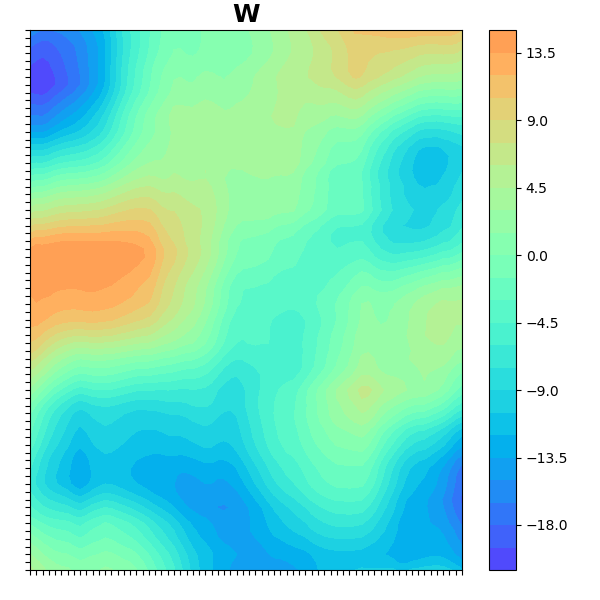
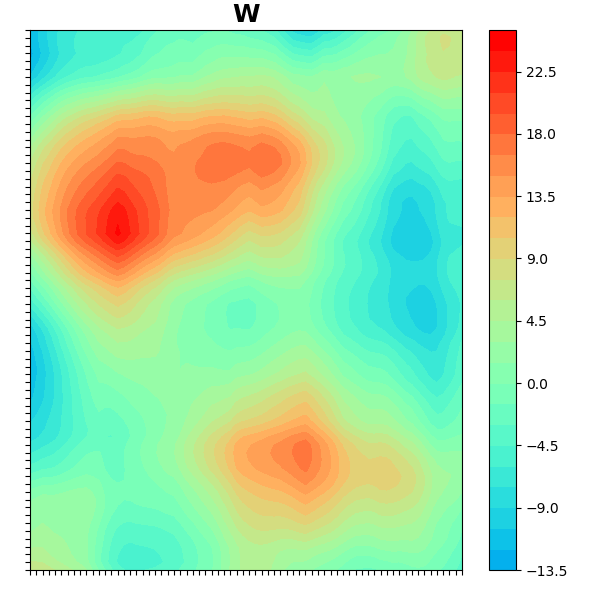
Убрал в спектральном методе матричные операции.

diff --git a/STG_core/lib/Spectral.c b/STG_core/lib/Spectral.c
@@ -6,18 +6,6 @@
 
 void STG_free_Spectral_data(STG_SpectralData * data)
 {
-    free(data->c1);
-    free(data->c2);
-    free(data->c3);
-    free(data->a11);
-    free(data->a12);
-    free(data->a13);
-    free(data->a21);
-    free(data->a22);
-    free(data->a23);
-    free(data->a31);
-    free(data->a32);
-    free(data->a33);
 
     free(data->u_abs);
 
@@ -26,41 +14,6 @@ void STG_free_Spectral_data(STG_SpectralData * data)
     free(data->alpha);
     free(data->theta);
     free(data->omega);
-}
-
-
-
-void STG_compute_Spectral_matrix_data(
-    STG_float re_uu, STG_float re_vv, STG_float re_ww,
-    STG_float re_uv, STG_float re_uw, STG_float re_vw,
-    STG_float * c1, STG_float * c2, STG_float * c3,
-    STG_float * a11, STG_float * a12, STG_float * a13,
-    STG_float * a21, STG_float * a22, STG_float * a23,
-    STG_float * a31, STG_float * a32, STG_float * a33
-)
-{
-    STG_float trace = re_uu + re_vv + re_ww;
-    STG_float eig_vals[3], eig_vec1[3], eig_vec2[3], eig_vec3[3];
-    compute_eig(
-        re_uu, re_vv, re_ww, re_uv, re_uw, re_vw,
-        eig_vals, eig_vec1, eig_vec2, eig_vec3
-    );
-    if ((re_uu == 0) && (re_vv == 0) && (re_ww == 0))
-    {
-        trace = eig_vals[0] + eig_vals[1] + eig_vals[2];
-    }
-    *c1 = sqrt(eig_vals[0] * 3 / trace);
-    *c2 = sqrt(eig_vals[1] * 3 / trace);
-    *c3 = sqrt(eig_vals[2] * 3 / trace);
-    *a11 = eig_vec1[0];
-    *a21 = eig_vec1[1];
-    *a31 = eig_vec1[2];
-    *a12 = eig_vec2[0];
-    *a22 = eig_vec2[1];
-    *a32 = eig_vec2[2];
-    *a13 = eig_vec3[0];
-    *a23 = eig_vec3[1];
-    *a33 = eig_vec3[2];
 }
 
 
@@ -114,19 +67,6 @@ void STG_compute_Spectral_data(
 
     data->u_abs = (STG_float *)malloc(sizeof(STG_float) * num_modes * mesh_size);
 
-    data->a11 = (STG_float *)malloc(sizeof(STG_float) * mesh_size);
-    data->a12 = (STG_float *)malloc(sizeof(STG_float) * mesh_size);
-    data->a13 = (STG_float *)malloc(sizeof(STG_float) * mesh_size);
-    data->a21 = (STG_float *)malloc(sizeof(STG_float) * mesh_size);
-    data->a22 = (STG_float *)malloc(sizeof(STG_float) * mesh_size);
-    data->a23 = (STG_float *)malloc(sizeof(STG_float) * mesh_size);
-    data->a31 = (STG_float *)malloc(sizeof(STG_float) * mesh_size);
-    data->a32 = (STG_float *)malloc(sizeof(STG_float) * mesh_size);
-    data->a33 = (STG_float *)malloc(sizeof(STG_float) * mesh_size);
-    data->c1 = (STG_float *)malloc(sizeof(STG_float) * mesh_size);
-    data->c2 = (STG_float *)malloc(sizeof(STG_float) * mesh_size);
-    data->c3 = (STG_float *)malloc(sizeof(STG_float) * mesh_size);
-
     data->phi = (STG_float *)malloc(sizeof(STG_float) * num_modes);
     data->psi = (STG_float *)malloc(sizeof(STG_float) * num_modes);
     data->alpha = (STG_float *)malloc(sizeof(STG_float) * num_modes);
@@ -149,17 +89,6 @@ void STG_compute_Spectral_data(
         }
     }
 
-    for (STG_int i_node = 0; i_node < mesh_size; i_node++)
-    {
-        STG_compute_Spectral_matrix_data(
-            init_data.re.re_uu[i_node], init_data.re.re_vv[i_node], init_data.re.re_ww[i_node],
-            init_data.re.re_uv[i_node], init_data.re.re_uw[i_node], init_data.re.re_vw[i_node],
-            &(data->c1[i_node]), &(data->c2[i_node]), &(data->c3[i_node]),
-            &(data->a11[i_node]), &(data->a12[i_node]), &(data->a13[i_node]),
-            &(data->a21[i_node]), &(data->a22[i_node]), &(data->a23[i_node]),
-            &(data->a31[i_node]), &(data->a32[i_node]), &(data->a33[i_node])
-        );
-    }
     STG_compute_Spectral_random_angles_and_phase(
         num_modes, data->phi, data->psi, data->alpha, data->theta, data->omega
     );
@@ -171,10 +100,6 @@ void STG_compute_Spectral_pulsations(
     STG_float * k1, STG_float * k2, STG_float * k3,
     STG_float * sigma1, STG_float * sigma2, STG_float * sigma3,
     STG_float * psi, STG_float * omega, STG_float * u_abs,
-    STG_float c1, STG_float c2, STG_float c3,
-    STG_float a11, STG_float a12, STG_float a13,
-    STG_float a21, STG_float a22, STG_float a23,
-    STG_float a31, STG_float a32, STG_float a33,
     STG_float x, STG_float y, STG_float z,
     STG_int num_modes, STG_float time_scale, STG_float time,
     STG_float * u_p, STG_float * v_p, STG_float * w_p
@@ -189,12 +114,9 @@ void STG_compute_Spectral_pulsations(
         v2 += 2 * u_abs[i] * cos(k1[i] * x + k2[i] * y + k3[i] * z + psi[i] + omega[i] * time / time_scale) * sigma2[i];
         v3 += 2 * u_abs[i] * cos(k1[i] * x + k2[i] * y + k3[i] * z + psi[i] + omega[i] * time / time_scale) * sigma3[i];
     }
-    STG_float w1 = c1 * v1;
-    STG_float w2 = c2 * v2;
-    STG_float w3 = c3 * v3;
-    *u_p = a11 * w1 + a12 * w2 + a13 * w3;
-    *v_p = a21 * w1 + a22 * w2 + a23 * w3;
-    *w_p = a31 * w1 + a32 * w2 + a33 * w3;
+	*u_p = v1;
+	*v_p = v2;
+	*w_p = v3;
 }
 
 
@@ -230,10 +152,6 @@ void STG_compute_Spectral_moment_field(
         STG_compute_Spectral_pulsations(
             k1, k2, k3, sigma1, sigma2, sigma3,
             data.psi, data.omega, &(data.u_abs[i_spec]),
-            data.c1[i_node], data.c2[i_node], data.c3[i_node],
-            data.a11[i_node], data.a12[i_node], data.a13[i_node],
-            data.a21[i_node], data.a22[i_node], data.a23[i_node],
-            data.a31[i_node], data.a32[i_node], data.a33[i_node],
             init_data.mesh.x[i_node], init_data.mesh.y[i_node], init_data.mesh.z[i_node],
             data.num_modes, init_data.scales.ts_i[i_node], mom_field->time,
             &(mom_field->u_p[i_node]), &(mom_field->v_p[i_node]), &(mom_field->w_p[i_node])
@@ -287,10 +205,6 @@ void STG_compute_Spectral_node_hist(STG_InitData init_data,
         STG_compute_Spectral_pulsations(
             k1, k2, k3, sigma1, sigma2, sigma3,
             data.psi, data.omega, &(data.u_abs[i_spec]),
-            data.c1[i_node], data.c2[i_node], data.c3[i_node],
-            data.a11[i_node], data.a12[i_node], data.a13[i_node],
-            data.a21[i_node], data.a22[i_node], data.a23[i_node],
-            data.a31[i_node], data.a32[i_node], data.a33[i_node],
             init_data.mesh.x[i_node], init_data.mesh.y[i_node], init_data.mesh.z[i_node],
             data.num_modes, init_data.scales.ts_i[i_node], time,
             &(node_hist->u_p[it]), &(node_hist->v_p[it]), &(node_hist->w_p[it])

diff --git a/STG_core/lib/Spectral.h b/STG_core/lib/Spectral.h
@@ -10,19 +10,6 @@ typedef struct STG_SpectralData_s
     STG_int j_cnt;
     STG_int k_cnt;
 
-    STG_float * c1;
-    STG_float * c2;
-    STG_float * c3;
-    STG_float * a11;
-    STG_float * a12;
-    STG_float * a13;
-    STG_float * a21;
-    STG_float * a22;
-    STG_float * a23;
-    STG_float * a31;
-    STG_float * a32;
-    STG_float * a33;
-
     STG_int num_modes;
     STG_float * u_abs;
 
@@ -60,23 +47,9 @@ STG_SHARED_LIB_API void STG_compute_Spectral_pulsations(
 	STG_float * k1, STG_float * k2, STG_float * k3,
     STG_float * sigma1, STG_float * sigma2, STG_float * sigma3,
     STG_float * psi, STG_float * omega, STG_float * u_abs,
-	STG_float c1, STG_float c2, STG_float c3,
-	STG_float a11, STG_float a12, STG_float a13,
-	STG_float a21, STG_float a22, STG_float a23,
-	STG_float a31, STG_float a32, STG_float a33,
 	STG_float x, STG_float y, STG_float z,
     STG_int num_modes, STG_float time_scale, STG_float time,
 	STG_float * u_p, STG_float * v_p, STG_float * w_p
-);
-
-
-STG_SHARED_LIB_API void STG_compute_Spectral_matrix_data(
-	STG_float re_uu, STG_float re_vv, STG_float re_ww,
-	STG_float re_uv, STG_float re_uw, STG_float re_vw,
-	STG_float * c1, STG_float * c2, STG_float * c3,
-	STG_float * a11, STG_float * a12, STG_float * a13,
-	STG_float * a21, STG_float * a22, STG_float * a23,
-	STG_float * a31, STG_float * a32, STG_float * a33
 );
 
 

diff --git a/STG_test_tools/generators/storage.py b/STG_test_tools/generators/storage.py
@@ -254,7 +254,6 @@ class Spectral(Generator):
     def __init__(
             self, block: Block, u_av: Tuple[float, float, float], num_modes,
             re_uu: float, re_vv: float, re_ww: float,
-            re_uv: float, re_uw: float, re_vw: float,
             ts_i: float, k_arr: np.ndarray, energy: np.ndarray, time_arr: np.ndarray
     ):
         self.num_modes = num_modes
@@ -263,7 +262,7 @@ class Spectral(Generator):
         Generator.__init__(
             self, block=block, u_av=u_av,
             re_uu=re_uu, re_vv=re_vv, re_ww=re_ww,
-            re_uv=re_uv, re_uw=re_uw, re_vw=re_vw,
+            re_uv=0, re_uw=0, re_vw=0,
             ls_i=0, ls_ux=0, ls_uy=0, ls_uz=0,
             ls_vx=0, ls_vy=0, ls_vz=0,
             ls_wx=0, ls_wy=0, ls_wz=0,

diff --git a/STG_test_tools/STG/spectral.py b/STG_test_tools/STG/spectral.py
@@ -8,19 +8,6 @@ class STG_SpectralData(ctypes.Structure):
         ('j_cnt', STG_int),
         ('k_cnt', STG_int),
 
-        ('c1', ctypes.POINTER(STG_float)),
-        ('c2', ctypes.POINTER(STG_float)),
-        ('c3', ctypes.POINTER(STG_float)),
-        ('a11', ctypes.POINTER(STG_float)),
-        ('a12', ctypes.POINTER(STG_float)),
-        ('a13', ctypes.POINTER(STG_float)),
-        ('a21', ctypes.POINTER(STG_float)),
-        ('a22', ctypes.POINTER(STG_float)),
-        ('a23', ctypes.POINTER(STG_float)),
-        ('a31', ctypes.POINTER(STG_float)),
-        ('a32', ctypes.POINTER(STG_float)),
-        ('a33', ctypes.POINTER(STG_float)),
-
         ('num_modes', STG_int),
         ('u_abs', ctypes.POINTER(STG_float)),
 

diff --git a/STG_test_tools/tests.py b/STG_test_tools/tests.py
@@ -113,9 +113,6 @@ class Tester2D:
                 re_uu=config.re_uu,
                 re_vv=config.re_vv,
                 re_ww=config.re_ww,
-                re_uv=config.re_uv,
-                re_uw=config.re_uw,
-                re_vw=config.re_vw,
                 ts_i=config.ts_i,
                 num_modes=params['num_modes'],
                 time_arr=np.array([0, 0.01 * config.length / max(config.u_av)]),

diff --git a/STG_core/STG.c b/STG_core/STG.c
@@ -466,9 +466,6 @@ static void test_Spectral_mom_field(
 
 	STG_compute_Spectral_data(init_data, num_modes, &data);
 	STG_compute_Spectral_moment_field(init_data, data, ts, num_ts, &mom_field);
-
-	printf("Matrix data \n");
-	printf("c1 = %.4f c2 = %.4f c3 = %.4f \n", data.c1[0], data.c2[0], data.c3[0]);
 	
 	printf("First 5 u_abs: \n");
 	for (STG_int i = 0; i < 5; i++)
